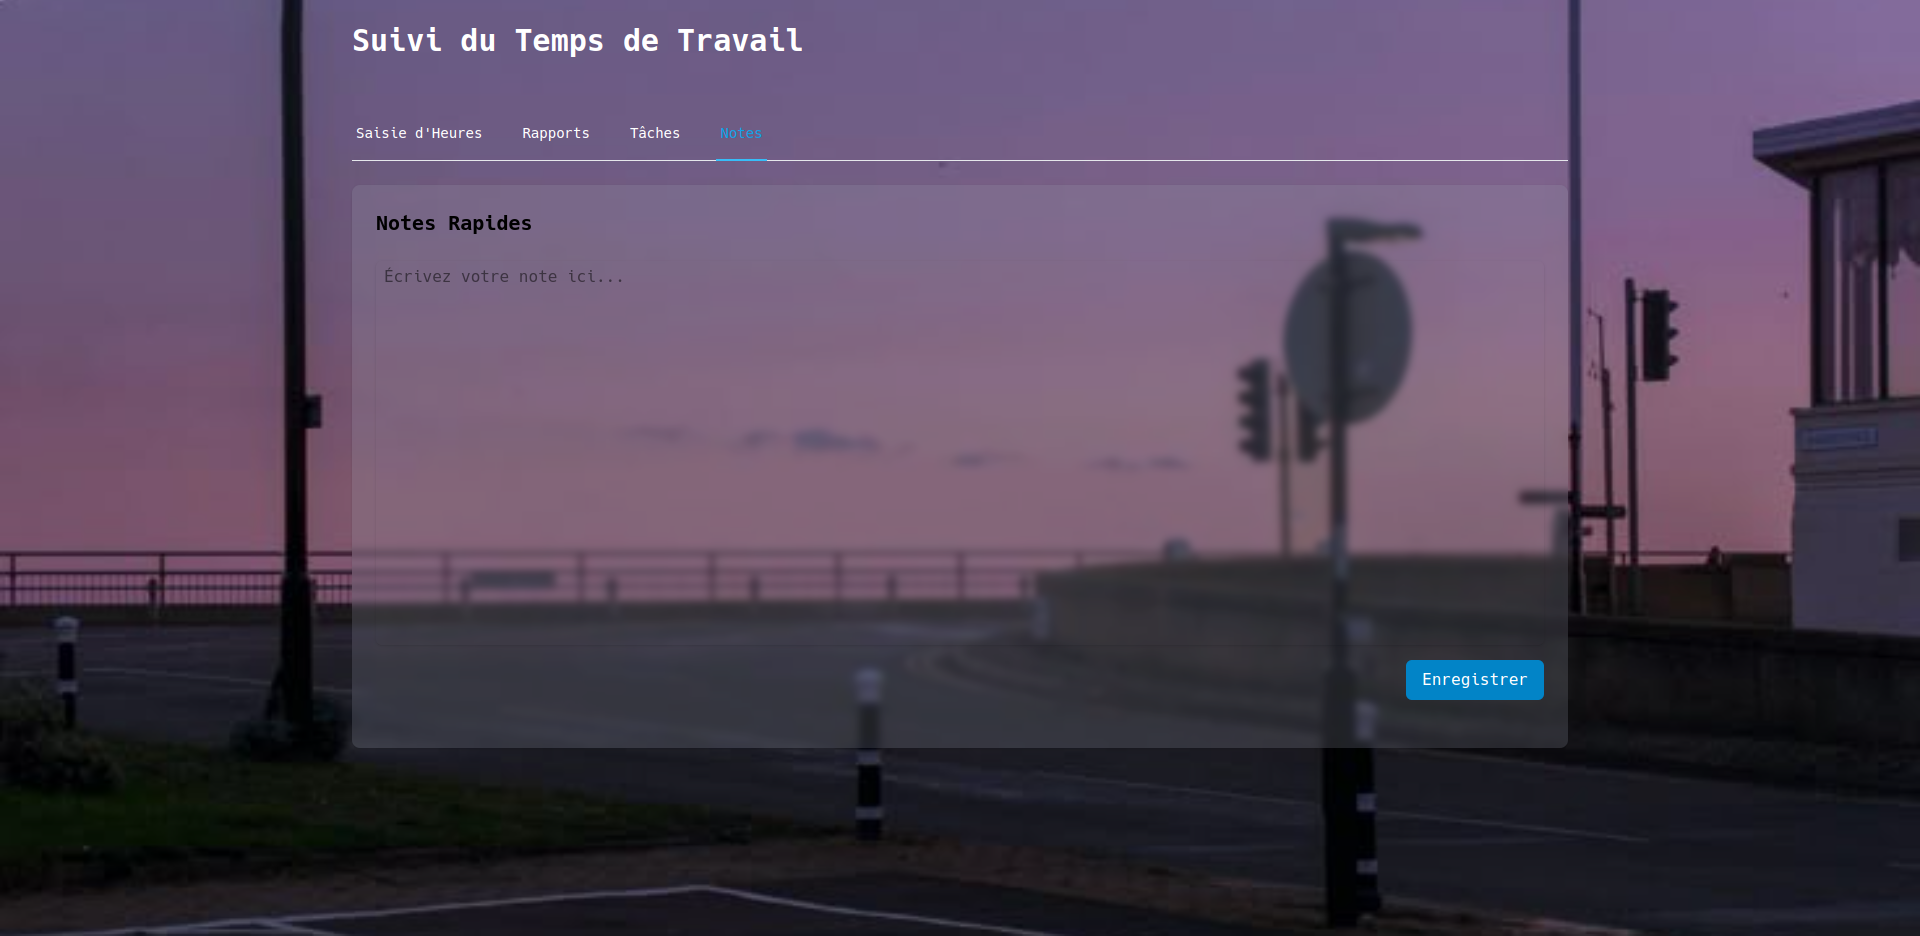
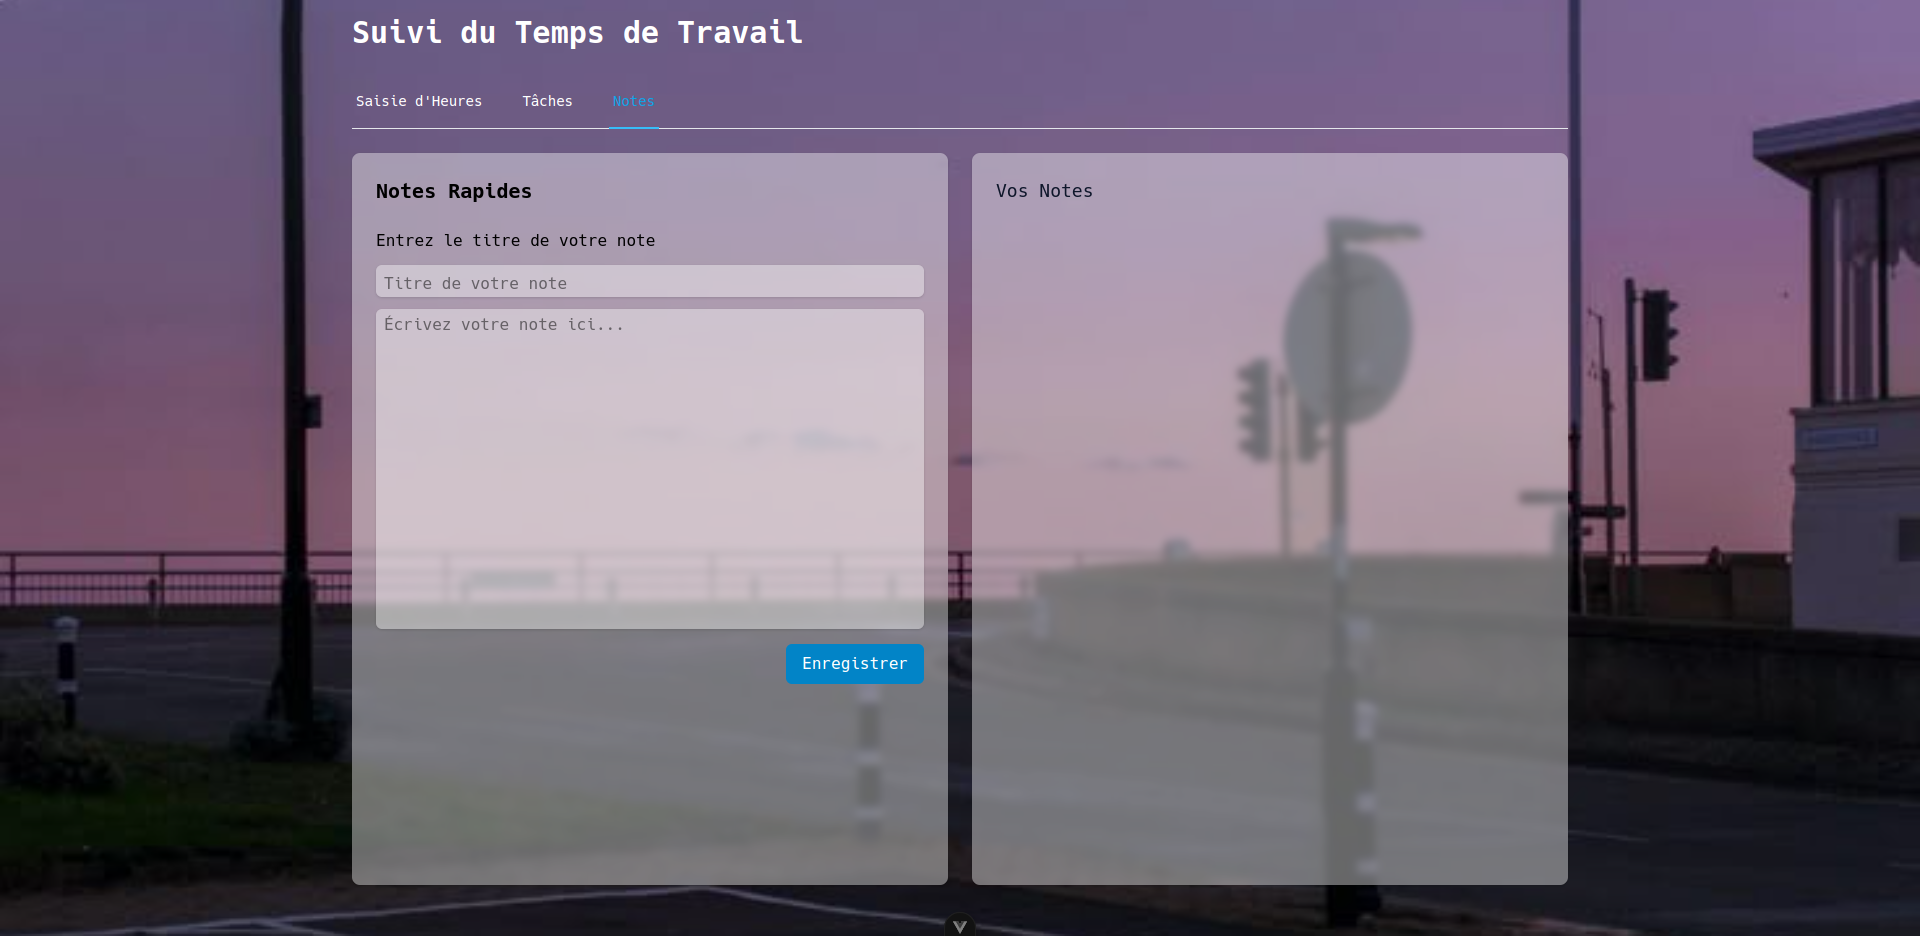
【💎】Feat | Added :
- New display of `Notes` and `TimeTracking`
- New screens for the `README.md`

diff --git a/src/components/TimeTraking.vue b/src/components/TimeTraking.vue
@@ -136,43 +136,39 @@ export default {
 </script>
 
 <template>
-    <div class="space-y-6">
-        <div class="bg-white/40 bg-clip-padding backdrop-filter backdrop-blur-xs shadow rounded-lg p-6">
+    <div class="flex space-x-6">
+        <div class="flex-1 bg-white/40 bg-clip-padding backdrop-filter backdrop-blur-xs shadow rounded-lg p-6">
             <div class="flex justify-between items-center mb-6">
                 <h2 class="text-xl font-semibold text-gray-800">Saisie d'Heures</h2>
                 <div class="text-2xl font-mono">{{ formatTime(elapsedTime) }}</div>
             </div>
-
             <div class="flex space-x-4 mb-6">
                 <button @click="startTimer" :disabled="isTimerRunning"
                     class="px-4 py-2 bg-green-600 text-white rounded-md disabled:bg-gray-400">
                     Démarrer
                 </button>
                 <button @click="stopTimer" :disabled="!isTimerRunning"
-                    class="px-4 py-2 bg-red-600 text-slate-500 rounded-md disabled:bg-gray-200">
+                    class="px-4 py-2 bg-red-600 text-slate-900 rounded-md disabled:bg-gray-200">
                     Arrêter
                 </button>
             </div>
-
             <div class="space-y-4">
                 <div>
-                    <label for="activity" class="block text-sm font-medium text-gray-700">Activité</label>
+                    <label for="activity" class="block text-lg font-medium text-gray-700">Activité</label>
                     <input id="activity" v-model="currentActivity" type="text"
-                        class="mt-1 pl-2 block h-10 w-full rounded-md border-gray-300 shadow-sm focus:outline-primary-400"
+                        class="mt-1 pl-2 block h-10 w-full rounded-md bg-white/40 border-gray-300 shadow-sm focus:outline-primary-400"
                         placeholder="Décrivez votre activité" />
                 </div>
-
                 <div>
-                    <label for="description" class="block text-sm font-medium text-gray-700">Description
+                    <label for="description" class="block text-lg font-medium text-gray-700">Description
                         détaillée</label>
                     <textarea id="description" v-model="currentDescription" rows="3"
-                        class="mt-1 pl-2 pt-2 block w-full rounded-md border-gray-300 shadow-sm focus:outline-primary-400"
+                        class="mt-1 pl-2 pt-2 block w-full h-[19rem] resize-none rounded-md bg-white/40 border-gray-300 shadow-sm focus:outline-primary-400"
                         placeholder="Détails sur ce que vous avez fait"></textarea>
                 </div>
-
                 <!-- Ajout de la fonctionnalité d'upload d'image -->
                 <div>
-                    <label for="image" class="block text-sm font-medium text-gray-700">Image</label>
+                    <label for="image" class="block text-lg font-medium text-gray-700">Image</label>
                     <div class="mt-1 flex items-center">
                         <input type="file" id="image" ref="imageInput" @change="handleImageUpload" accept="image/*"
                             class="hidden" />
@@ -190,7 +186,6 @@ export default {
                         <img :src="currentImagePreview" alt="Aperçu" class="h-32 object-cover rounded-md" />
                     </div>
                 </div>
-
                 <button @click="saveTimeEntry"
                     class="w-full px-4 py-2 bg-primary-600 text-white rounded-md hover:bg-primary-700">
                     Enregistrer
@@ -198,9 +193,10 @@ export default {
             </div>
         </div>
 
-        <div class="bg-white/40 bg-clip-padding backdrop-filter backdrop-blur-xs shadow rounded-lg p-6">
-            <h3 class="text-lg font-medium text-slate-900 mb-4">Entrées récentes</h3>
-            <div class="space-y-4">
+        <div class="flex-1 bg-white/40 bg-clip-padding backdrop-filter backdrop-blur-xs shadow rounded-lg p-6">
+            <h3 class="text-xl font-bold text-black mb-4">Entrées récentes</h3>
+            <div
+                class="space-y-4 h-[40rem] overflow-y-scroll overflow-x-hidden scroll-p-1 custom-scrollbar notes-container">
                 <div v-for="(entry, index) in timeEntries" :key="index" class="border-b pb-4">
                     <div class="flex justify-between">
                         <span class="font-bold text-xl text-primary-300">{{ entry.activity }}</span>
@@ -226,25 +222,51 @@ export default {
                 </div>
             </div>
         </div>
+    </div>
 
-        <!-- Fenêtre modale de confirmation de suppression -->
-        <div v-if="showDeleteModal"
-            class="bg-white/40 bg-clip-padding backdrop-filter backdrop-blur-xs fixed inset-0 flex items-center justify-center z-50">
-            <div class="bg-white rounded-lg p-6 max-w-md w-full mx-4">
-                <h3 class="text-lg font-medium text-gray-900 mb-4">Confirmer la suppression</h3>
-                <p class="text-gray-600 mb-6">
-                    Êtes-vous sûr de vouloir supprimer cette entrée ? Cette action est irréversible.
-                </p>
-                <div class="flex justify-end space-x-3">
-                    <button @click="closeDeleteModal"
-                        class="px-4 py-2 bg-gray-200 text-gray-800 rounded-md hover:bg-gray-300">
-                        Annuler
-                    </button>
-                    <button @click="confirmDelete" class="px-4 py-2 bg-red-600 text-white rounded-md hover:bg-red-700">
-                        Supprimer
-                    </button>
-                </div>
+    <!-- Fenêtre modale de confirmation de suppression -->
+    <div v-if="showDeleteModal"
+        class="bg-white/40 bg-clip-padding backdrop-filter backdrop-blur-xs fixed inset-0 flex items-center justify-center z-50">
+        <div class="bg-white rounded-lg p-6 max-w-md w-full mx-4">
+            <h3 class="text-lg font-medium text-gray-900 mb-4">Confirmer la suppression</h3>
+            <p class="text-gray-600 mb-6">
+                Êtes-vous sûr de vouloir supprimer cette entrée ? Cette action est irréversible.
+            </p>
+            <div class="flex justify-end space-x-3">
+                <button @click="closeDeleteModal"
+                    class="px-4 py-2 bg-gray-200 text-gray-800 rounded-md hover:bg-gray-300">
+                    Annuler
+                </button>
+                <button @click="confirmDelete" class="px-4 py-2 bg-red-600 text-white rounded-md hover:bg-red-700">
+                    Supprimer
+                </button>
             </div>
         </div>
     </div>
 </template>
+
+
+<style scoped>
+/* Styles pour personnaliser la barre de défilement */
+.custom-scrollbar::-webkit-scrollbar {
+    width: 10px;
+}
+
+.custom-scrollbar::-webkit-scrollbar-track {
+    background: #f1f1f100;
+    border-radius: 10px;
+}
+
+.custom-scrollbar::-webkit-scrollbar-thumb {
+    background: #ffffff71;
+    border-radius: 5px;
+}
+
+.custom-scrollbar::-webkit-scrollbar-thumb:hover {
+    background: #5555556e;
+}
+
+.notes-container {
+    padding-right: 10px;
+}
+</style>

diff --git a/src/components/Notes.vue b/src/components/Notes.vue
@@ -69,8 +69,9 @@ export default {
 </script>
 
 <template>
-    <div class="space-y-6">
-        <div class="bg-white/40 bg-clip-padding backdrop-filter backdrop-blur-xs shadow rounded-lg p-6">
+    <div class="flex space-x-6">
+        <!-- Container pour la prise de notes -->
+        <div class="flex-1 bg-white/40 bg-clip-padding backdrop-filter backdrop-blur-xs shadow rounded-lg p-6">
             <h2 class="text-xl font-semibold text-black mb-6">Notes Rapides</h2>
             <div class="flex flex-col">
                 <label for="title" class="mb-3">Entrez le titre de votre note</label>
@@ -88,7 +89,13 @@ export default {
                     </button>
                 </div>
             </div>
-            <div class="space-y-4 h-30 overflow-y-scroll overflow-x-hidden scroll-p-1 custom-scrollbar notes-container">
+        </div>
+
+        <!-- Container pour l'affichage des notes -->
+        <div class="flex-1 bg-white/40 bg-clip-padding backdrop-filter backdrop-blur-xs shadow rounded-lg p-6">
+            <h3 class="text-lg font-medium text-slate-900 mb-4">Vos Notes</h3>
+            <div
+                class="space-y-4 h-[40rem] overflow-y-scroll overflow-x-hidden scroll-p-1 custom-scrollbar notes-container">
                 <div v-for="(note, index) in notes" :key="index" class="bg-secondary/20 p-4 rounded-lg relative">
                     <button @click="openDeleteModal(index)"
                         class="absolute top-2 right-2 text-xs bg-red-100 hover:bg-red-200 text-red-600 px-2 py-1 rounded">
@@ -105,6 +112,7 @@ export default {
             </div>
         </div>
     </div>
+
     <!-- Fenêtre modale de confirmation de suppression -->
     <div v-if="showDeleteModal"
         class="fixed inset-0 bg-white/40 bg-clip-padding backdrop-filter backdrop-blur-xs flex items-center justify-center z-50">
@@ -126,6 +134,7 @@ export default {
     </div>
 </template>
 
+
 <style scoped>
 /* Styles pour personnaliser la barre de défilement */
 .custom-scrollbar::-webkit-scrollbar {
@@ -133,7 +142,7 @@ export default {
 }
 
 .custom-scrollbar::-webkit-scrollbar-track {
-    background: #f1f1f10c;
+    background: #f1f1f100;
     border-radius: 10px;
 }
 

diff --git a/src/App.vue b/src/App.vue
@@ -26,12 +26,12 @@ export default {
 <template>
   <div class="min-h-screen bg-[url('@/assets/img/backk.jpg')] bg-cover bg-center">
     <header>
-      <div class="max-w-7xl mx-auto px-4 py-6 sm:px-6 lg:px-8">
+      <div class="max-w-7xl mx-auto pt-4 sm:px-6 lg:px-8">
         <h1 class="text-3xl font-bold text-white">Suivi du Temps de Travail</h1>
       </div>
     </header>
 
-    <main class="max-w-7xl mx-auto px-4 py-6 sm:px-6 lg:px-8">
+    <main class="max-w-7xl mx-auto py-6 sm:px-6 lg:px-8">
       <!-- Navigation Tabs -->
       <div class="border-b border-gray-200 mb-6">
         <nav class="flex -mb-px space-x-8">

diff --git a/README.md b/README.md
@@ -9,7 +9,6 @@ Traker time comme son nom l'indique est un petit site web pour pouvoir suivre so
 ### Qu'elle fonctionnalités ce trouve dans le site ?
 
 - Suivie du temps de travail
-- Rapport détailler sur les dernières heures de travail réaliser
 - Une liste de tache que vous pouvez compléter de vous même
 - Et une section de prise de note
 
@@ -19,9 +18,6 @@ Traker time comme son nom l'indique est un petit site web pour pouvoir suivre so
 
 <p style="display: flex; justify-content: center; font-size: 24px; font-weight: bold;"> Saisie de temps </p>
 <img src='/src/assets/img/README/Saisie_Heure.png' style="margin-bottom: 1rem; border-radius: 1rem;">
-
-<p style="display: flex; justify-content: center; font-size: 24px; font-weight: bold;"> Rapports sur les saisies de temps </p>
-<img src='/src/assets/img/README/Rapports.png' style="margin-bottom: 1rem;  border-radius: 1rem;"/>
 
 <p style="display: flex; justify-content: center; font-size: 24px; font-weight: bold;"> Saisies des tâches </p>
 <img src='/src/assets/img/README/Tâches.png' style="margin-bottom: 1rem; border-radius: 1rem;"/>
